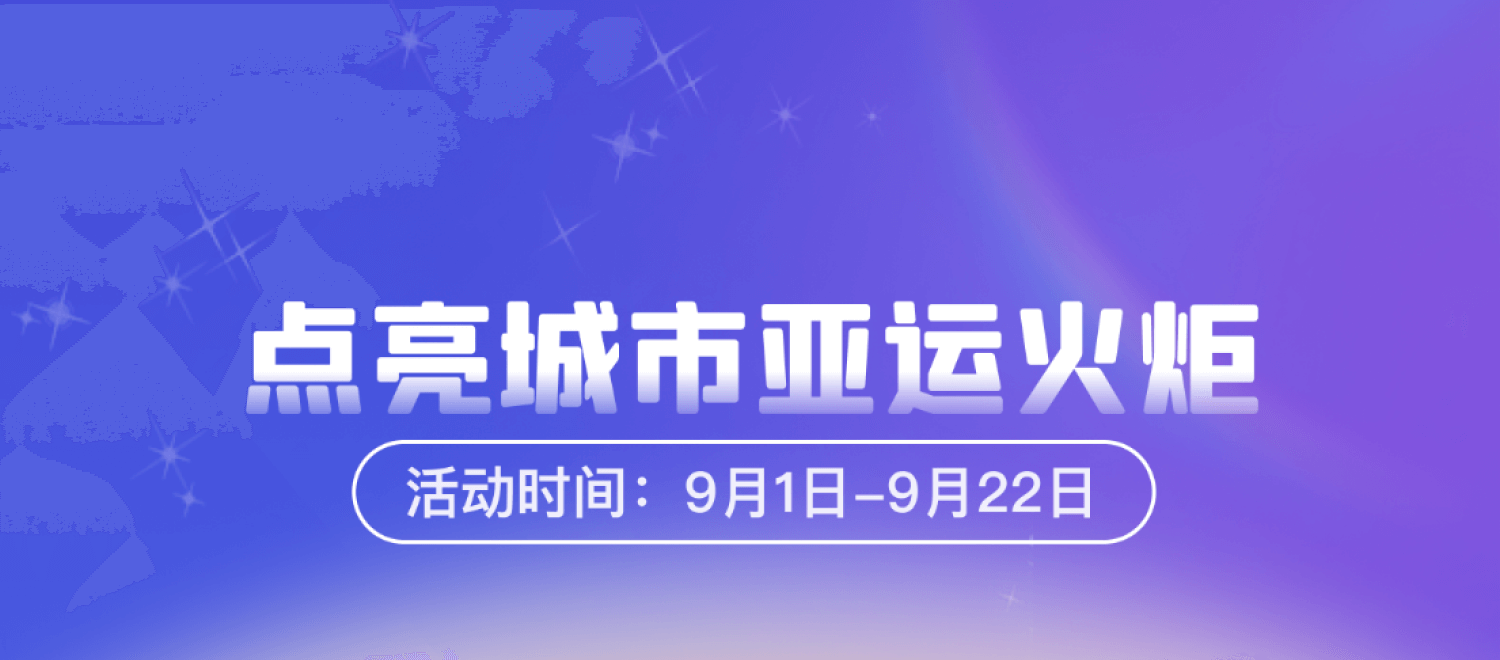
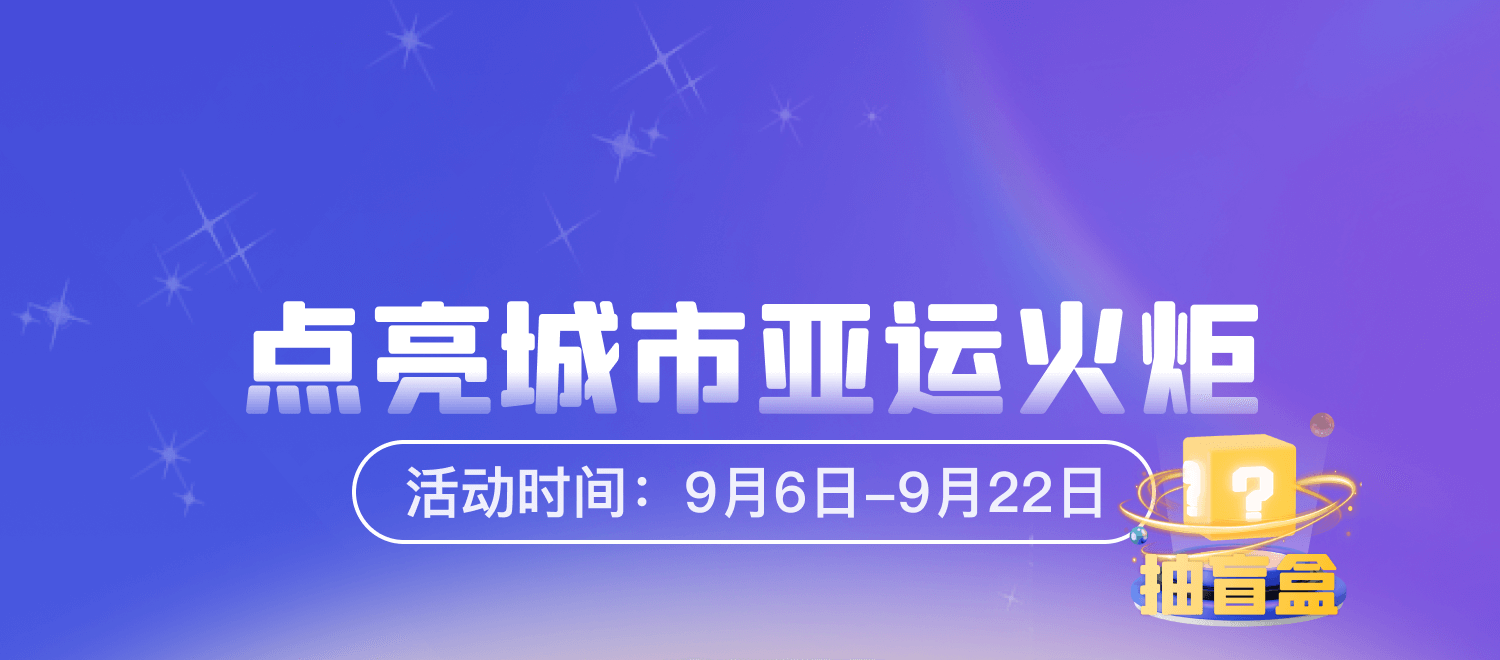
feat: 修改图片 与按钮显示逻辑

diff --git a/src/views/index/index.vue b/src/views/index/index.vue
@@ -3,6 +3,7 @@
     <GuideTips ref="childRef" v-if="showGuideTips" />
     <div :class="{ indexBg: true, appTop: isApp, wxTop: !isApp }">
       <div class="top-img">
+        <div class="click-topbox" @click="toSignClick"></div>
         <!-- <div class="top-t1">点亮亚运火炬</div>
         <div class="top-t2">活动时间：9月1日 — 9月22日</div> -->
       </div>
@@ -27,7 +28,7 @@
 
       <div v-if="actStatus == 1" class="actbtn01"></div>
       <div v-if="actStatus == 2" class="actbtn03">活动已结束</div>
-      <div v-if="actStatus == 0" class="actbtn02" @click="jumoUpPage"></div>
+      <div v-if="actStatus == 0 && isSignUp" class="actbtn02" @click="jumoUpPage"></div>
       <div class="list-box">
         <!-- <div class="list-t1">城市热力值排行榜</div>
         <div class="list-t2">点亮亚运火炬，为城市增加热力值</div> -->
@@ -186,6 +187,14 @@ export default defineComponent({
       timer = setTimeout(()=>{
         getCityList()
       },10000)
+    }
+
+    const toSignClick = ()=>{
+      const canContinue = isOnApp();
+      if (!canContinue) { return }
+      const path = encodeURIComponent('https://zinteract.cztv.com/batrix-h5/luckydraw/?id=193')
+      const route = `chinablue://cztvrouter/business/h5?path=${path}&displayBar=false`
+      cztvApi.route(route)
     }
 
 
@@ -419,6 +428,7 @@ export default defineComponent({
       radioList,
       place,
       selectCity,
+      toSignClick,
       showSuccessDialog,
       cityClick,
       unLockClick,
@@ -602,6 +612,14 @@ export default defineComponent({
       position: absolute;
       overflow: hidden;
       top: -76px;
+      .click-topbox{
+        position: absolute;
+        right: 70px;
+        top: 195px;
+        width: 120px;
+        height: 120px;
+        // background-color: rgba($color: #000000, $alpha: .5);
+      }
 
       .top-t1 {
         margin-top: calc(97px + 76px);

diff --git a/types/ztvApi.d.ts b/types/ztvApi.d.ts
@@ -18,4 +18,5 @@ declare namespace cztvApi {
   function changeShareInfo (res:any): void;
   function showShareButton (res:any): void;
   function share(data:any,callFn):void
+  function route(url:string):void
 }
